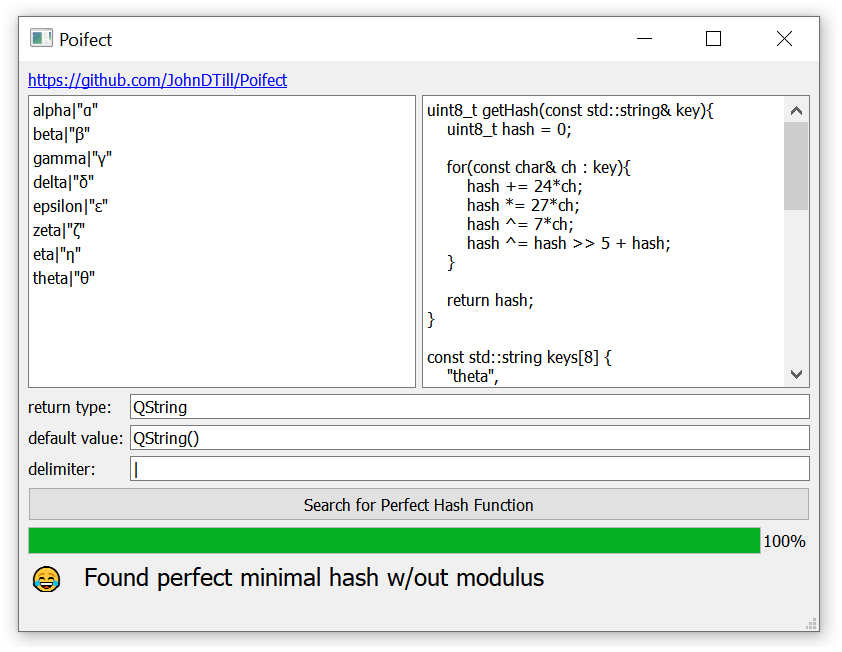
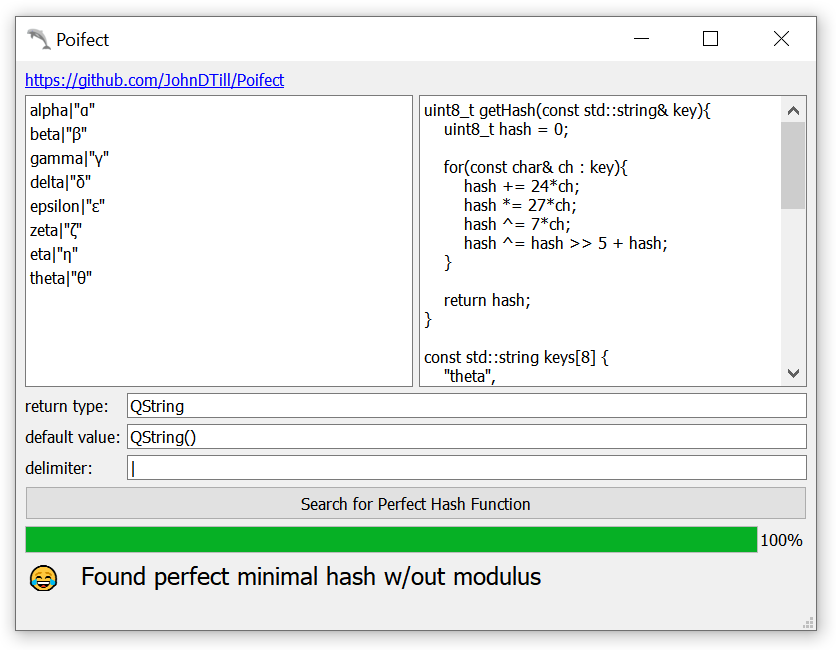
Aesthetic changes

diff --git a/src/mainwindow.cpp b/src/mainwindow.cpp
@@ -22,17 +22,10 @@ static uint8_t progress = 0;
 static bool terminated = true;
 static std::string msg;
 
-#ifdef __EMSCRIPTEN__ //WASM code isn't updating correctly
-#include <emscripten/emscripten.h>
-#endif
-
 static void callback(){
     main_window->ui->progressBar->setValue(progress);
     main_window->ui->statusLabel->setText(QString::fromStdString(msg));
     QCoreApplication::processEvents();
-    #ifdef __EMSCRIPTEN__ //WASM code isn't updating correctly
-    emscripten_sleep(1);
-    #endif
 }
 
 void MainWindow::writeHashFunction(){
@@ -52,7 +45,6 @@ void MainWindow::writeHashFunction(){
     }
     QChar delimiter = delimiter_str.front();
 
-    #ifndef __EMSCRIPTEN__ //WASM code isn't splitting correctly
     QVector<QStringRef> rows = ui->inputEdit->toPlainText().splitRef('\n');
     if(rows.size() > 1 && rows.back().isEmpty()) rows.pop_back();
 
@@ -84,39 +76,6 @@ void MainWindow::writeHashFunction(){
         keys[i] = key;
         vals[i] = entries[1].toString().toStdString();
     }
-    #else
-    auto rows = ui->inputEdit->toPlainText().split('\n');
-    if(rows.size() > 1 && rows.back().isEmpty()) rows.pop_back();
-
-    std::vector<std::string> keys(static_cast<std::vector<std::string>::size_type>(rows.size()));
-    std::vector<std::string> vals(static_cast<std::vector<std::string>::size_type>(rows.size()));
-
-    for(std::vector<std::string>::size_type i = 0; i < keys.size(); i++){
-        auto entries = rows[static_cast<QVector<QStringRef>::size_type>(i)].split(delimiter);
-        if(entries.size() < 2){
-            if(entries.size()==0){
-                ui->outputEdit->setText("Row " + QString::number(i+1) + " NO_ENTRY, rows " + QString::number(rows.size()));
-                return;
-            }
-
-            ui->outputEdit->setText("Row " + QString::number(i+1) + " does not have 2 entries, rows " + QString::number(rows.size())
-                                    + "\n" + entries.front());
-            return;
-        }
-
-        std::string key = entries[0].toStdString();
-        for(std::vector<std::string>::size_type j = 0; j < i; j++){
-            if(keys[j] == key){
-                ui->outputEdit->setText("Key on row " + QString::number(i+1) +
-                                        " duplicates key on row " + QString::number(j+1));
-                return;
-            }
-        }
-
-        keys[i] = key;
-        vals[i] = entries[1].toStdString();
-    }
-    #endif
 
     terminated = false;
     QString old_btn_msg = ui->pushButton->text();

diff --git a/README.md b/README.md
@@ -4,8 +4,6 @@ Perfect hash generator - brute force search to find a good hash function.
 
 ![screenshot](screenshot.png?raw=true "Poifect")
 
-<!--[Try it in your browser!](https://johndtill.github.io/Poifect/)-->
-
 ## Critical Reviews
 
 **★★★★★**<br>
@@ -23,3 +21,9 @@ Perfect hash generator - brute force search to find a good hash function.
 ## License
 
 This project is licensed under the MIT License - see the [LICENSE](LICENSE) file for details.
+
+## Credits
+
+Porpoise image by [Clker-Free-Vector-Images](https://pixabay.com/users/Clker-Free-Vector-Images-3736) from [Pixabay](https://pixabay.com).
+
+![Poirpose](src/dolphin-310228.svg?raw=true "A Poifect Porpoise")
